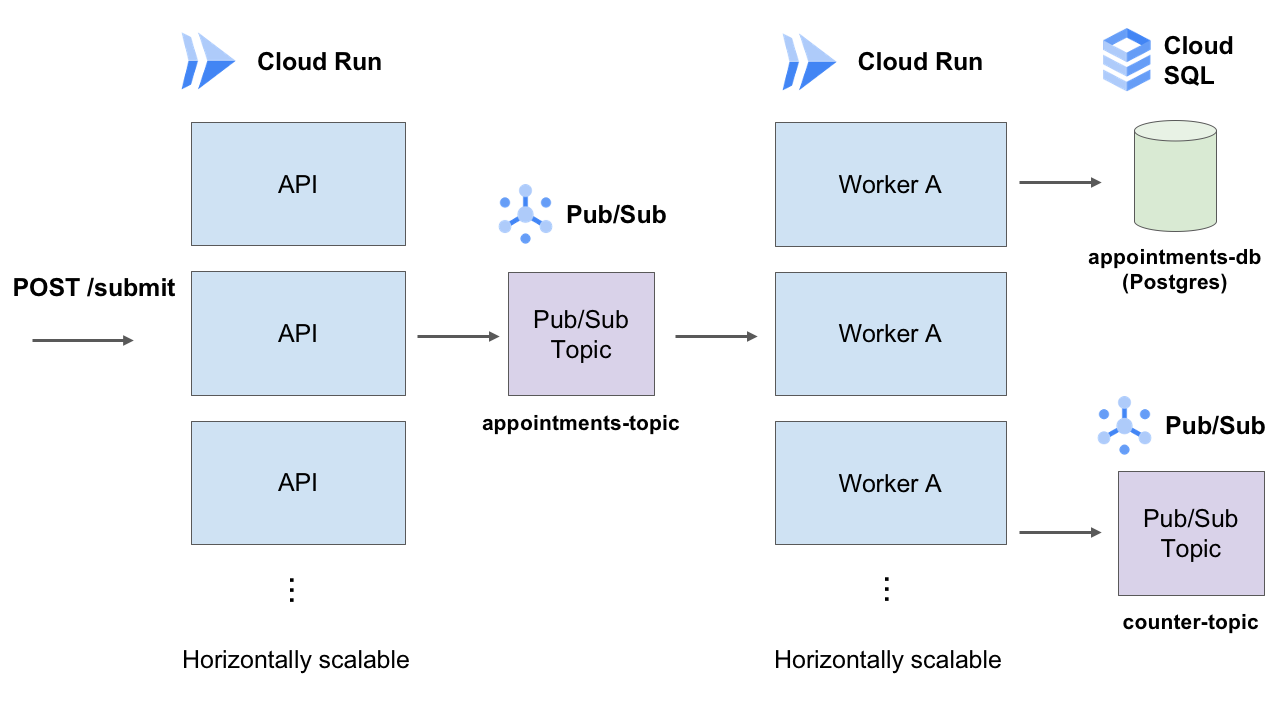
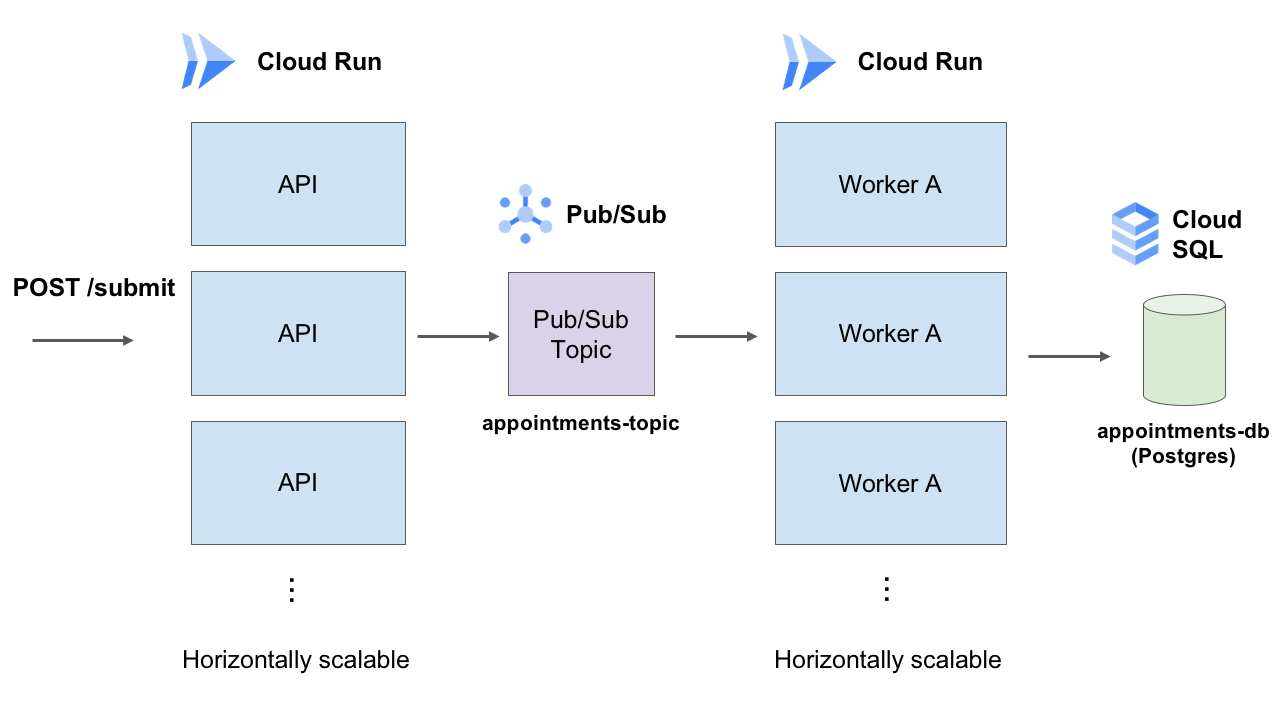
Update architecture

Changed region(s): [[0.8125, 0.1528, 1.0, 0.825], [0.8438, 0.0306, 0.9688, 0.1222], [0.875, 0.8556, 1.0, 0.8861]]

diff --git a/content/blog/architecting-astrazeneca-vaccine-booking-site/index.md b/content/blog/architecting-astrazeneca-vaccine-booking-site/index.md
@@ -73,17 +73,15 @@ In my design, all this endpoint will do it simply publish the incoming appointme
 
 {{< figure src="./2_submit.png" caption="POST /submit takes a payload of the booking information, puts it into Pub/Sub, and returns. The payload is processed asynchronously by workers separately." >}}
 
-On the other end of this Pub/Sub topic are worker container instances running in Cloud Run (also horizontally scalable), processing the incoming booking information, and updating the SQL database (Postgres in my case) with the booking information. That's it. It can optionally also send an email confirmation to the user (e.g. an API call to SendGrid).
+On the other end of this Pub/Sub topic are worker container instances running in Cloud Run (also horizontally scalable), processing the incoming booking information, and storing the booking information the SQL database (Postgres in my case). That's it. It can optionally also send an email confirmation to the user (e.g. an API call to SendGrid).
 
-Importantly, in my design this worker does one more thing: emit a message to another Pub/Sub topic, `counter-topic` with the date and location of the booking. This message will be used by another worker to update the Redis cache with latest booking times information for the booking times endpoint. That is what we explore next.
+Importantly, in my design this worker does one more thing: Update a counter row in the database with a query like `UPDATE mytable SET mycolumn = mycolumn + 1;` that is immune to concurrency issues. This message will be used by another worker to update the Redis cache with latest booking times information for the booking times endpoint. That is what we explore next.
 
 ### C. Updating booking times in the cache
 
 Arguably this is the most critical part of the system, which will close the loop in our design.
 
-I try to go for a simple one, i.e. process the incoming messages from `counter-topic` using worker instances, and simply updating a counter row in the database with a query like `UPDATE mytable SET mycolumn = mycolumn + 1;` that is immune to concurrency issues.
-
-I would then also setup another separate single worker (Worker B) that simply reads from this table every 5-10 seconds and updates the Redis cache for each State for serving by the API. BOOM, we are done.
+Another separate single worker (Worker B) that simply reads from this table every 5-10 seconds and updates the Redis cache for each State for serving by the API. BOOM, we are done.
 
 {{< figure src="./3_update_list.png" caption="Workers process messages from counter-topic, and increments a counter in the database. Another worker periodically reads from these counter rows and updates the Redis cache with available latest booking times." >}}
 
